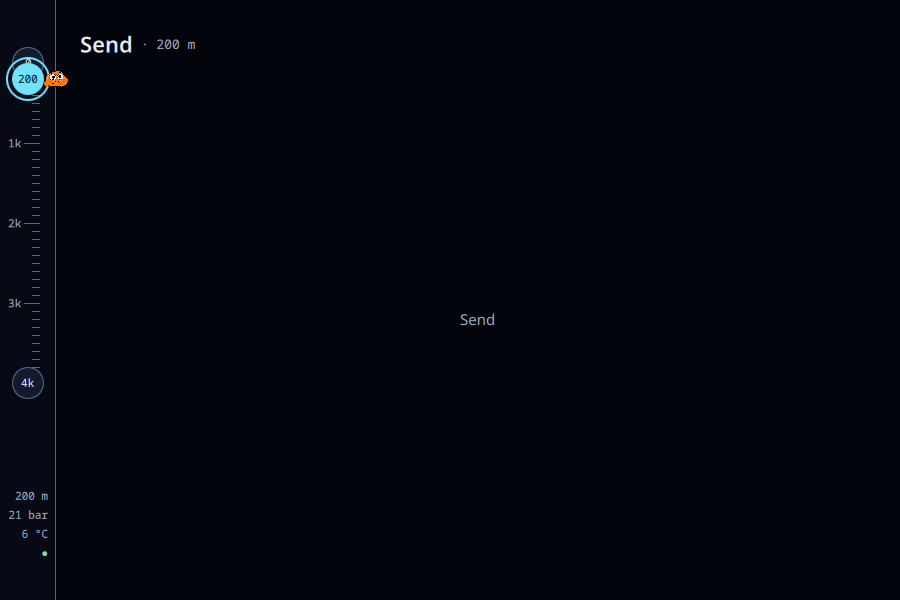
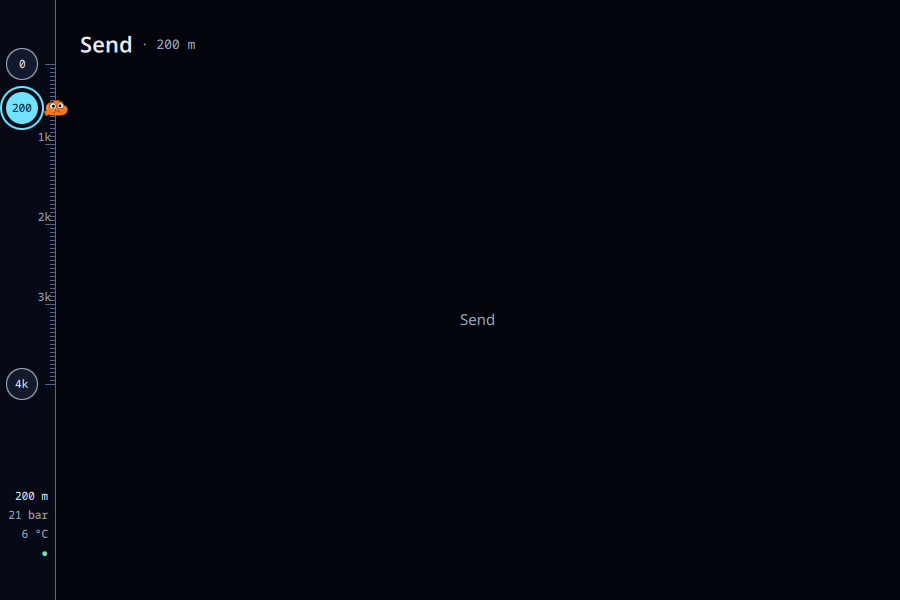
fix(app): gauge contrast, target spacing, hover/pressed, keyboard-only ring, tick layout (NAK-304)

diff --git a/app/components/DepthGauge.qml b/app/components/DepthGauge.qml
@@ -18,15 +18,28 @@ Rectangle {
     property bool compact: false
 
     // Room above the 0 m target, and below the deepest one for the readouts
-    readonly property real _top: 63
+    readonly property real _top: 64
     readonly property real _readoutsRoom: 280
-    readonly property int _targetX: (width - 44) / 2
+    // Targets hug the left edge, the ticks the right one, so they never touch
+    readonly property int _targetX: compact ? 0 : 4
+    readonly property int _majorTick: compact ? 10 : 16
+    readonly property int _minorTick: compact ? 5 : 8
+    readonly property int _tickGap: 4
+    // The 0 m and 200 m centres are never closer than one target, so both stay
+    // fully tappable at 900 x 600 where the true scale puts them 16 px apart
+    readonly property int _minGap: 44
     readonly property real _span: Math.max(1, height - _readoutsRoom)
     readonly property int _depth: (Stations.byId(current) ?? Stations.STATIONS[0]).depth
     readonly property var _readouts: Stations.readouts(_depth)
     readonly property var _signal: Stations.signal(netbirdState)
 
     signal chosen(string stationId)
+
+    function centerY(depth: real): real {
+        const natural = _top + Stations.fraction(depth) * _span;
+        const first = _top + Stations.fraction(Stations.STATIONS[0].depth) * _span;
+        return depth > Stations.STATIONS[0].depth ? Math.max(natural, first + _minGap) : natural;
+    }
 
     width: compact ? 56 : 72
     color: Theme.surfaceContainerLow
@@ -41,16 +54,28 @@ Rectangle {
         color: Theme.outline
     }
 
-    // Scale: a tick every 100 m, a longer one with a label every 1 000 m
+    // Scale: a minor tick every 4 px of the span, a longer one every 1 000 m
     Repeater {
-        model: 41
+        model: Math.floor(gauge._span / 4) + 1
 
         Rectangle {
             required property int index
-            readonly property bool major: index % 10 === 0
-            x: gauge.width - 16 - (major ? 16 : 8)
-            y: gauge._top + Stations.fraction(index * 100) * gauge._span
-            width: major ? 16 : 8
+            x: gauge.width - 1 - width
+            y: gauge._top + index * 4
+            width: gauge._minorTick
+            height: 1
+            color: Theme.outline
+        }
+    }
+
+    Repeater {
+        model: 5
+
+        Rectangle {
+            required property int index
+            x: gauge.width - 1 - width
+            y: gauge._top + Stations.fraction(index * 1000) * gauge._span
+            width: gauge._majorTick
             height: 1
             color: Theme.outline
         }
@@ -61,8 +86,9 @@ Rectangle {
 
         Text {
             required property int modelData
-            x: 8
-            y: gauge._top + Stations.fraction(modelData) * gauge._span - height / 2
+            // Right-aligned just above its long tick, clear of the targets
+            x: gauge.width - 1 - gauge._tickGap - width
+            y: gauge._top + Stations.fraction(modelData) * gauge._span - height
             text: modelData / 1000 + "k"
             color: Theme.onSurfaceVariant
             font.family: Theme.monoFontFamily
@@ -76,7 +102,8 @@ Rectangle {
         StationTarget {
             required property var modelData
             x: gauge._targetX
-            y: gauge._top + Stations.fraction(modelData.depth) * gauge._span - height / 2
+            y: gauge.centerY(modelData.depth) - height / 2
+            z: current ? 2 : 0
             stationId: modelData.id
             mark: modelData.mark
             label: modelData.title + " " + modelData.depth + " m"
@@ -88,12 +115,13 @@ Rectangle {
     // Darwin beside the current target; he hangs half over the content padding
     Image {
         x: gauge.width - 12
-        y: gauge._top + Stations.fraction(gauge._depth) * gauge._span - height / 2
-        z: 1
+        y: gauge.centerY(gauge._depth) - height / 2
+        z: 3
         width: 24
         height: 24
         source: "assets/darwin/body.png"
         fillMode: Image.PreserveAspectFit
+        sourceSize: Qt.size(24, 24)
         asynchronous: true
     }
 
@@ -111,10 +139,12 @@ Rectangle {
             model: [gauge._readouts.depth, gauge._readouts.pressure, gauge._readouts.temperature]
 
             Text {
+                required property int index
                 required property string modelData
                 anchors.right: parent.right
                 text: modelData
-                color: Theme.onSurfaceVariant
+                // The depth leads, pressure and temperature support it
+                color: index === 0 ? Theme.surfaceText : Theme.onSurfaceVariant
                 font.family: Theme.monoFontFamily
                 font.pixelSize: Theme.fontSizeSmall
             }

diff --git a/app/components/StationTarget.qml b/app/components/StationTarget.qml
@@ -11,7 +11,11 @@ FocusScope {
     required property string label
     property bool current: false
     // 2 px ring on the current station and on the one focused by keyboard
-    readonly property int ringWidth: activeFocus || current ? 2 : 0
+    readonly property int ringWidth: focusVisible || current ? 2 : 0
+    // Keyboard focus only: a click focuses the target but must not restyle its ring
+    readonly property bool focusVisible: activeFocus && !_byPointer
+    readonly property bool hovered: area.containsMouse
+    property bool _byPointer: false
 
     signal activated(string stationId)
 
@@ -23,6 +27,10 @@ FocusScope {
     Keys.onReturnPressed: activated(stationId)
     Keys.onEnterPressed: activated(stationId)
     Keys.onSpacePressed: activated(stationId)
+    onActiveFocusChanged: {
+        if (!activeFocus)
+            _byPointer = false;
+    }
 
     // Ring: the current station always, the focused one when reached by keyboard
     Rectangle {
@@ -30,7 +38,7 @@ FocusScope {
         radius: width / 2
         color: "transparent"
         border.width: target.ringWidth
-        border.color: target.activeFocus ? Theme.surfaceText : Theme.primary
+        border.color: target.focusVisible ? Theme.surfaceText : Theme.primary
     }
 
     Rectangle {
@@ -38,9 +46,17 @@ FocusScope {
         width: 32
         height: 32
         radius: 16
-        color: target.current ? Theme.primary : Theme.surfaceContainerHigh
+        // Hover: one container step up; pressed: a brief transform-only squeeze
+        color: target.current ? Theme.primary : target.hovered ? Theme.surfaceContainerHighest : Theme.surfaceContainerHigh
         border.width: target.current ? 0 : 1
-        border.color: Theme.outline
+        border.color: Theme.outlineStrong
+        scale: area.pressed ? 0.96 : 1
+
+        Behavior on scale {
+            NumberAnimation {
+                duration: Theme.shortDuration
+            }
+        }
 
         Text {
             anchors.centerIn: parent
@@ -52,8 +68,12 @@ FocusScope {
     }
 
     MouseArea {
+        id: area
+
         anchors.fill: parent
+        hoverEnabled: true
         cursorShape: Qt.PointingHandCursor
+        onPressed: target._byPointer = true
         onClicked: {
             target.forceActiveFocus(Qt.MouseFocusReason);
             target.activated(target.stationId);

diff --git a/tests/scene/AppFrame.test.qml b/tests/scene/AppFrame.test.qml
@@ -145,6 +145,9 @@ Window {
             tryVerify(() => frame.width === 900, 2000);
             win.check("compact: gauge 56, padding 24, title row 40", frame.compact && frame.gaugeWidth === 56 && frame.pad === 24 && frame.titleHeight === 40);
             win.check("compact: targets stay 44 x 44 inside the gauge", map.width === 44 && map.x >= 0 && map.x + map.width <= 56, map.x);
+            win.check("compact: Send keeps 44 px below Settings", send.y - settings.y >= 44, send.y - settings.y);
+            mouseClick(send, 22, 22);
+            win.check("a click does not draw the keyboard ring", send.activeFocus && !send.focusVisible);
             win.width = 1280;
             win.height = 800;
             tryVerify(() => frame.width === 1280, 2000);

diff --git a/app/components/Stations.js b/app/components/Stations.js
@@ -95,6 +95,6 @@ function signal(state) {
     case "missing":
         return { "glyph": "✕", "role": "error", "label": "no NetBird" };
     default:
-        return { "glyph": "○", "role": "outline", "label": "no signal" };
+        return { "glyph": "○", "role": "onSurfaceVariant", "label": "no signal" };
     }
 }

diff --git a/CHANGELOG.md b/CHANGELOG.md
@@ -7,6 +7,7 @@ The format follows [Keep a Changelog](https://keepachangelog.com/en/1.1.0/) and 
 
 ### Added
 
+- App gauge: targets keep 44 px apart, hover and pressed states, keyboard-only focus ring, readable "no signal" (NAK-304).
 - **Settings with a section rail on the left**: the Abyss settings list their sections in a rail on the left (one common list, a logo per section, the same look as Orbit's settings), and the page on the right shows only the chosen section. Opening the page writes nothing; the layout holds at the narrow width. Tests in `tests/sections.test.js` and the rail and page QML tests; the bench scene `scripts/preview/bench-settings.qml` covers the idle page and the section-change loop. Known limit: long toggle titles can wrap at 366 px.
 
 - **Darwin mood engine** (`components/Mood.js`, pure logic, not wired to any view yet): a small automaton gives Darwin a mood with inertia, reacts to events, sets a gaze point and phase hints, and separates the interest point from the wake sleeper. Input is validated and the seed is skipped on purpose. Full transition tests in `tests/mood.test.js` (63 checks). No visible change: the wiring lands with NAK-239.
